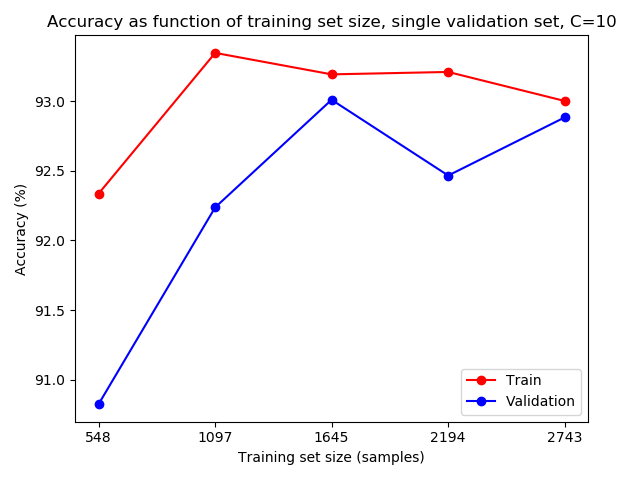
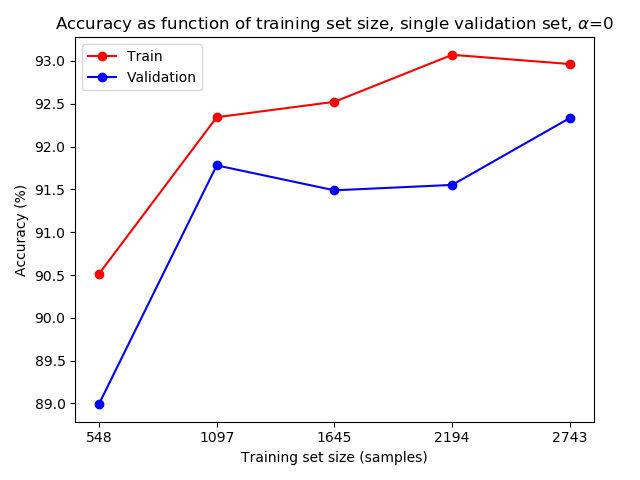
new graphs

diff --git a/ANN.py b/ANN.py
@@ -4,17 +4,17 @@ import numpy as np
 from utils import plot_train_vald, get_reg_title
 import sys
 
-NO_REGULARIZATION = 10
+NO_REGULARIZATION = 0
 
 def with_cross(train_data_x, train_data_y, regularization=False):
-    c = 0.0001 if regularization else NO_REGULARIZATION
+    alpha = 52 if regularization else NO_REGULARIZATION
     prec = [0.2, 0.4, 0.6, 0.8, 1]
     acc_train = []
     acc_vald = []
-    sampels_num = [int(x * len(train_data_x)*(4/5)) for x in prec]
+    sampels_num = [int(x * len(train_data_x) * (4 / 5)) for x in prec]
     for k in sampels_num:
         print(int(len(train_data_x) * k))
-        clf =MLPClassifier(hidden_layer_sizes=(3,), solver='adam', activation='relu', alpha=c, max_iter=20000)
+        clf = MLPClassifier(hidden_layer_sizes=(3,), solver='adam', activation='relu', alpha=alpha, max_iter=20000)
         result = cross_validate(clf, train_data_x[:k], train_data_y[:k], cv=5, scoring='accuracy',
                                 return_train_score=True)
 
@@ -23,11 +23,11 @@ def with_cross(train_data_x, train_data_y, regularization=False):
 
     plot_train_vald(acc_train, acc_vald, sampels_num, x_label="Training set size (samples)",
                     y_label="Mean Accuracy (%)",
-                    title="Mean Accuracy as function of training set size, cv (5), C={0}".format(get_reg_title(c)))
+                    title="Mean Accuracy as function of training set size, cv (5), $\\alpha$={0}".format(alpha))
 
 
 def without_cross(train_data_x, train_data_y, regularization=False):
-    c = 0.0001 if regularization else NO_REGULARIZATION
+    alpha = 52 if regularization else NO_REGULARIZATION
     training_set_size = int((4 / 5) * len(train_data_x))
     vald_x = train_data_x[training_set_size + 1:]
     vald_y = train_data_y[training_set_size + 1:]
@@ -41,7 +41,7 @@ def without_cross(train_data_x, train_data_y, regularization=False):
     sampels_num = [int(x * len(train_data_x)) for x in prec]
     for k in sampels_num:
         print(int(len(train_data_x) * k))
-        clf =MLPClassifier(hidden_layer_sizes=(3,), solver='adam', activation='relu', alpha=c, max_iter=20000)
+        clf = MLPClassifier(hidden_layer_sizes=(3,), solver='adam', activation='relu', alpha=alpha, max_iter=20000)
 
         clf.fit(train_data_x[:k], train_data_y[:k])
         y_hat = clf.predict(vald_x[:int(k / 5)])
@@ -51,5 +51,4 @@ def without_cross(train_data_x, train_data_y, regularization=False):
         acc_train.append(np.sum(y_hat == train_data_y[:k]) / len(train_data_y[:k]))
 
     plot_train_vald(acc_train, acc_vald, sampels_num, x_label="Training set size (samples)", y_label="Accuracy (%)",
-                    title="Accuracy as function of training set size, single validation set, C={}".format(
-                        get_reg_title(c)))
+                    title="Accuracy as function of training set size, single validation set, $\\alpha$={0}".format(alpha))

diff --git a/main.py b/main.py
@@ -49,7 +49,7 @@ train_data_x, test_data_x, train_data_y, test_data_y = train_test_split(data_x, 
 svm_model = find_best_svm_model(train_data_x,train_data_y)
 witout_k_fold_with_regulariztion(train_data_x, train_data_y)
 LR.without_cross(train_data_x, train_data_y, regularization=True)'''
-ANN.with_cross(train_data_x, train_data_y, regularization=True)
+ANN.without_cross(train_data_x, train_data_y, regularization=True)
 exit()
 
 prec = [0.2, 0.4, 0.6, 0.8, 1]
